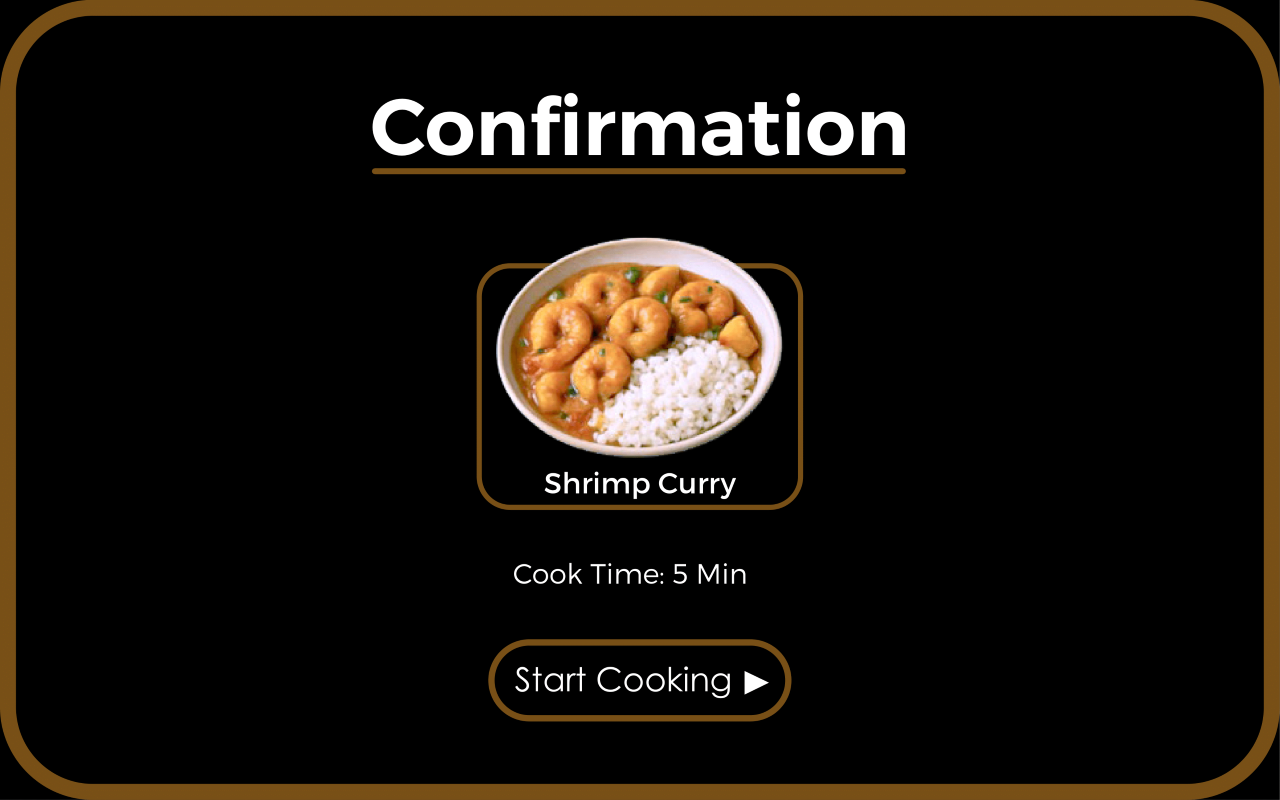
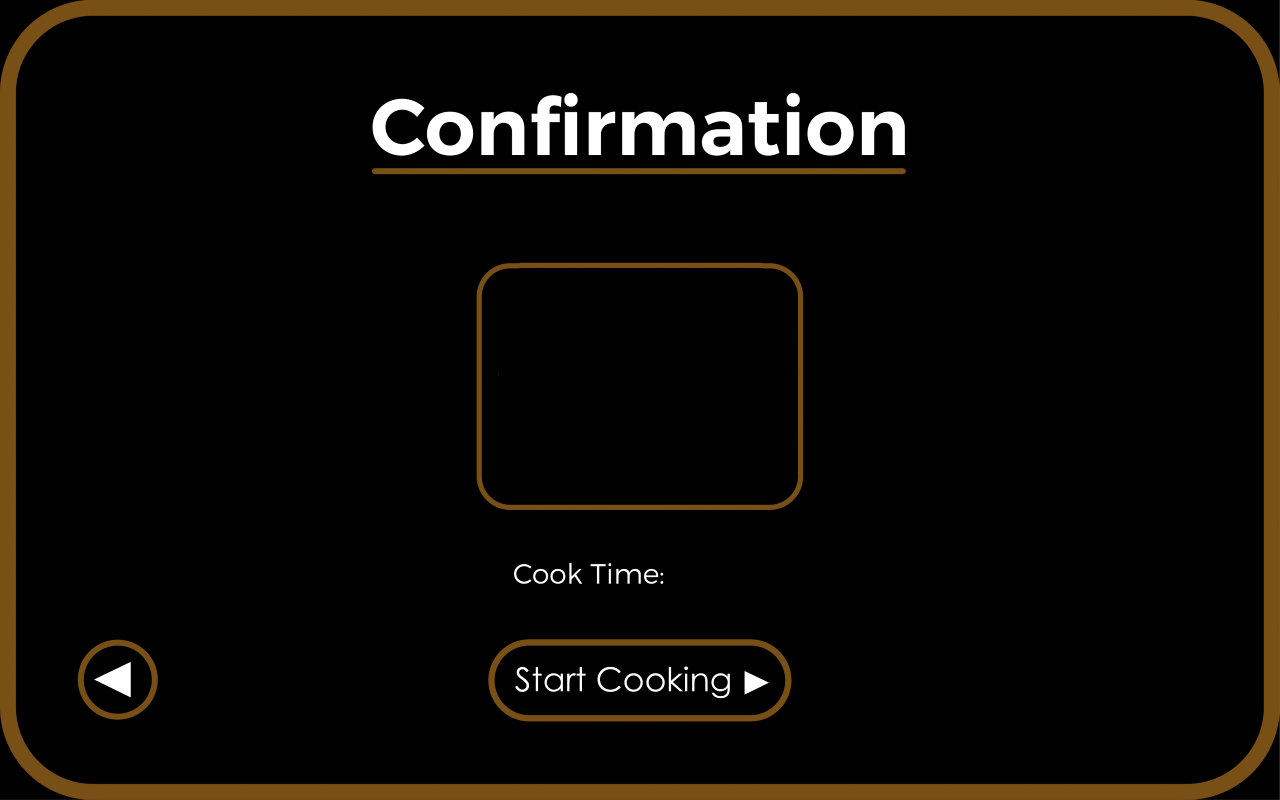
2025/12/06 01:06:36

Changed region(s): [[0.375, 0.2812, 0.625, 0.625], [0.0625, 0.7812, 0.125, 0.9062], [0.5312, 0.6875, 0.5625, 0.75]]

diff --git a/hmi_consts.py b/hmi_consts.py
@@ -1,0 +1,125 @@
+# hmi_consts.py
+
+from pathlib import Path
+import sys
+
+
+__version__ = "1.0.22 ß"
+
+
+# app_root(), a very common helper when you’re building Python applications
+# that can run both from source and as a frozen executable (e.g. built with PyInstaller).
+# _MEIPASS is set when built with PyInstaller.
+def app_root() -> Path:
+    if getattr(sys, "_MEIPASS", None):
+        return Path(sys._MEIPASS)
+    return Path(__file__).resolve().parent
+
+
+ROOT_DIR = app_root()
+ASSETS_DIR = ROOT_DIR / "assets"
+SETTINGS_DIR = ROOT_DIR / "settings"
+PROGRAMS_DIR = ROOT_DIR / "programs"
+
+
+class HMIColors:
+    BORDER_COLOR = "#E0E0F2"
+    DISABLED_BORDER_COLOR = "#BDBDBD"
+    DIALOG_BG_COLOR = "#FEFEFE"
+    BTN_COLOR = "#FAFAFF"
+    BTN_HOVER_COLOR = "#F0F0FF"
+    TEXT_COLOR = "#6750A4"
+    ROW_HIGHLIGHT = "#C0C3EE"
+    TEXTBOX_BG_COLOR = "#F7F7FF"
+    color_blue = "#89C8F8"
+    color_fg = "#DAFAFF"
+    color_numbers = "#3776C3"
+
+
+class HMISizePos:
+    """
+    Resolution profiles + scaling helpers.
+    Baseline design is 800x480; everything scales from there.
+    """
+
+    # Baseline
+    _BASE_W = 800
+    _BASE_H = 480
+
+    # Current resolution (set by set_resolution)
+    SCREEN_W = 800
+    SCREEN_H = 480
+    SCREEN_RES = "800x480"
+
+    # Scale factors
+    SX = 1.0  # width scale
+    SY = 1.0  # height scale
+    SCALE = 1.0  # min(SX, SY), good for fonts/radii
+
+    # Common base sizes
+    BTN_WIDTH_BASE = 220
+    BTN_HEIGHT_BASE = 64
+    PADDING_BASE = 16
+    GAP_BASE = 12
+    TITLE_SIZE_BASE = 28
+    TEXT_SIZE_BASE = 16
+    ICON_SIZE_BASE = 24
+
+    # Effective sizes (computed in set_resolution)
+    BTN_WIDTH = BTN_WIDTH_BASE
+    BTN_HEIGHT = BTN_HEIGHT_BASE
+    PADDING = PADDING_BASE
+    GAP = GAP_BASE
+    TITLE_SIZE = TITLE_SIZE_BASE
+    TEXT_SIZE = TEXT_SIZE_BASE
+    ICON_SIZE = ICON_SIZE_BASE
+
+    _PROFILES = {
+        "800x480": {"w": 800, "h": 480},
+        "1024x600": {"w": 1024, "h": 600},
+        "1280x800": {"w": 1280, "h": 800},
+    }
+
+    @classmethod
+    def set_resolution(cls, res: str = "800x480"):
+        if res not in cls._PROFILES:
+            res = "800x480"
+        cls.SCREEN_W = cls._PROFILES[res]["w"]
+        cls.SCREEN_H = cls._PROFILES[res]["h"]
+        cls.SCREEN_RES = f"{cls.SCREEN_W}x{cls.SCREEN_H}"
+
+        cls.SX = cls.SCREEN_W / cls._BASE_W
+        cls.SY = cls.SCREEN_H / cls._BASE_H
+        cls.SCALE = min(cls.SX, cls.SY)
+
+        # Derive commonly used sizes
+        cls.BTN_WIDTH = int(cls.BTN_WIDTH_BASE * cls.SX)
+        cls.BTN_HEIGHT = int(cls.BTN_HEIGHT_BASE * cls.SY)
+        cls.PADDING = int(cls.PADDING_BASE * cls.SCALE)
+        cls.GAP = int(cls.GAP_BASE * cls.SCALE)
+        cls.TITLE_SIZE = max(10, int(cls.TITLE_SIZE_BASE * cls.SCALE))
+        cls.TEXT_SIZE = max(8, int(cls.TEXT_SIZE_BASE * cls.SCALE))
+        cls.ICON_SIZE = max(12, int(cls.ICON_SIZE_BASE * cls.SCALE))
+
+    # --- scaling helpers your pages call ---
+    @classmethod
+    def s(cls, v: int | float) -> int:
+        """Uniform scale (fonts, radii)."""
+        return max(1, int(v * cls.SCALE))
+
+    @classmethod
+    def sx(cls, v: int | float) -> int:
+        """Scale for widths/x paddings."""
+        return max(1, int(v * cls.SX))
+
+    @classmethod
+    def sy(cls, v: int | float) -> int:
+        """Scale for heights/y paddings."""
+        return max(1, int(v * cls.SY))
+
+
+class HMISerial:
+    BAUD_RATE = 115200
+    DATABITS = 8
+    STOPBITS = 1
+    PARITY = "N"

diff --git a/start_cooking_confirmation.py b/start_cooking_confirmation.py
@@ -1,0 +1,85 @@
+# testpage.py
+import os
+from typing import List
+import customtkinter as ctk
+from PIL import Image, ImageDraw
+from hotspots import Hotspot
+from hmi_consts import ASSETS_DIR
+
+
+class StartCookingConfirmation:
+    """
+    Page model:
+      - uses homepage.png
+      - defines three hotspots and their callbacks
+    """
+
+    IMAGE_NAME = "04ConfirmationPage.png"
+
+    def __init__(self, controller=None):
+        self.controller = controller
+        self.meal_index: int = -1  # ← store for incoming parameter
+
+        self.meal_images = {
+            0: ("ShrimpCurry.png", "Shrimp Curry"),
+            1: ("ChickenParmesan.png", "Chicken Parmesan"),
+            2: ("BeefStirFry.png", "Beef Stir Fry"),
+            3: ("salmon.png", "Salmon"),
+            4: ("SteakAndBroccoli.png", "Steak abd Broccoli"),
+            5: ("Reheat.png", "Reheat"),
+        }
+
+        here = os.path.dirname(__file__) if "__file__" in globals() else os.getcwd()
+        assets_dir = os.path.join(here, "assets")
+        os.makedirs(assets_dir, exist_ok=True)
+
+        self.image_path = os.path.join(assets_dir, self.IMAGE_NAME)
+
+        self.hotspots: List[Hotspot] = [
+            Hotspot(
+                f"back",
+                (84, 642, 154, 707),
+                self.on_back_clicked,  # ← capture parameter
+            ),
+            Hotspot(
+                f"start",
+                (490, 641, 785, 716),
+                self.on_start_clicked,  # ← capture parameter
+            ),
+        ]
+
+    # ------------------------------------------------------------------
+    # Callbacks
+    # ------------------------------------------------------------------
+
+    def on_back_clicked(self):
+        print("on_back_clicked")
+        if self.controller:
+            self.controller.show_PrepareForCookingPage2()
+
+    def on_start_clicked(self):
+        print("on_start_clicked")
+        if self.controller:
+            pass
+
+    # ------------------------------------------------------------------
+    # Methods
+    # ------------------------------------------------------------------
+    def on_show(self, meal_index: int):
+        self.meal_index = meal_index
+        # Look up the meal's image
+        filename, name = self.meal_images[meal_index]
+
+        if not filename:
+            self.controller.view.set_overlay_image(None)
+            return
+
+        path = os.path.join(ASSETS_DIR, filename)
+
+        print(path)
+
+        # Show it in the confirmation page
+        self.controller.view.set_overlay_image(path, name, size=(270, 200))
+
+    def on_hide(self):
+        self.controller.view.set_overlay_image(None, None)

diff --git a/multipage_controller.py b/multipage_controller.py
@@ -7,6 +7,7 @@ from homepage import HomePage
 from select_meal_page import SelectMealPage
 from prepare_for_cooking1 import PrepareForCookingPage1
 from prepare_for_cooking2 import PrepareForCookingPage2
+from start_cooking_confirmation import StartCookingConfirmation
 
 
 class MultiPageController:
@@ -32,6 +33,7 @@ class MultiPageController:
         self.select_meal_page = SelectMealPage(controller=self)
         self.prepare_for_cooking_page1 = PrepareForCookingPage1(controller=self)
         self.prepare_for_cooking_page2 = PrepareForCookingPage2(controller=self)
+        self.start_cooking_confirm_page = StartCookingConfirmation(controller=self)
 
         # If you later add more pages, create them here, e.g.:
         # from settings_page import SettingsPage
@@ -44,9 +46,28 @@ class MultiPageController:
     # ------------------------------------------------------------------
     def show_page(self, page_obj) -> None:
         """
-        Generic page switch:
-          - page_obj must have image_path + hotspots
+        Generic page switch with lifecycle hooks:
+        - Calls on_hide() on the previous page (if it exists)
+        - Calls on_show() on the new page (if it exists)
+        - Updates the ImageHotspotView
         """
+        # 1. Call on_hide on the current page (if available)
+        if self._current_page and hasattr(self._current_page, "on_hide"):
+            try:
+                self._current_page.on_hide()
+            except Exception as e:
+                print(f"WARNING: on_hide() failed on {self._current_page}: {e}")
+
+        # 2. Call on_show on the new page (if available)
+        if hasattr(page_obj, "on_show"):
+            try:
+                page_obj.on_show()
+            except TypeError:
+                # Some pages (like StartCookingConfirmation) expect parameters
+                # They will call on_show manually before show_page()
+                pass
+
+        # 3. Switch pages visually
         self._current_page = page_obj
         self.view.set_page(page_obj)
 
@@ -61,6 +82,10 @@ class MultiPageController:
 
     def show_PrepareForCookingPage2(self) -> None:
         self.show_page(self.prepare_for_cooking_page2)
+
+    def show_StartCookingConfirmation(self) -> None:
+        self.start_cooking_confirm_page.on_show(self.select_meal_page.meal_index)
+        self.show_page(self.start_cooking_confirm_page)
 
     # Example for future pages:
     # def show_SettingsPage(self) -> None:

diff --git a/image_hotspot_view.py b/image_hotspot_view.py
@@ -46,6 +46,28 @@ class ImageHotspotView(ctk.CTkFrame):
         self.canvas.pack()
         self.canvas.bind("<Button-1>", self._on_click)
 
+        # --- Overlay image widget (for meal preview etc.) ---
+        self._overlay_ctk_image = None  # keeps reference
+        self.overlay_label = ctk.CTkLabel(
+            self, text="", fg_color="black", width=200, height=200
+        )
+        # Place it where the golden rectangle is (adjust as needed)
+        self.overlay_label.place(x=505, y=225)
+        self.overlay_label.lower()  # keep it above canvas but below hotspots, if any
+
+        self.label = ctk.CTkLabel(
+            self,
+            text="",
+            fg_color="black",
+            bg_color="black",
+            width=300,
+            height=57,
+            font=ctk.CTkFont(family="Poppins", size=32, weight="bold"),
+        )
+        # Place it where the golden rectangle is (adjust as needed)
+        self.label.place(x=490, y=435)
+        self.label.lower()  # keep it above canvas but below hotspots, if any
+
     # ------------------------------------------------------------------
     # Singleton access
     # ------------------------------------------------------------------
@@ -103,3 +125,33 @@ class ImageHotspotView(ctk.CTkFrame):
                 if hs.handler:
                     hs.handler()
                 break
+
+    def set_overlay_image(
+        self, image_path: str | None, name: str | None, size=(300, 300)
+    ):
+        """
+        Shows or hides an overlay image on top of the base page image.
+        image_path = None → hides the overlay.
+        """
+        if not image_path:
+            self.overlay_label.configure(image=None)
+            self._overlay_ctk_image = None
+            self.overlay_label.lower()  # hide the label if there is no image
+            self.label.lower()
+            return
+
+        if not os.path.exists(image_path):
+            print(f"Overlay image not found: {image_path}")
+            return
+
+        from PIL import Image
+
+        pil_img = Image.open(image_path).convert("RGBA")
+        pil_img = pil_img.resize(size)
+
+        self._overlay_ctk_image = ctk.CTkImage(dark_image=pil_img, size=size)
+        self.overlay_label.configure(image=self._overlay_ctk_image)
+        self.overlay_label.lift()  # keep it above canvas but below hotspots, if any
+
+        self.label.configure(text=name)
+        self.label.lift()

diff --git a/select_meal_page.py b/select_meal_page.py
@@ -17,6 +17,7 @@ class SelectMealPage:
 
     def __init__(self, controller=None):
         self.controller = controller
+        self.meal_index: int = -1
 
         here = os.path.dirname(__file__) if "__file__" in globals() else os.getcwd()
         assets_dir = os.path.join(here, "assets")
@@ -55,8 +56,9 @@ class SelectMealPage:
     # ------------------------------------------------------------------
     # Callbacks
     # ------------------------------------------------------------------
-    def on_meal_clicked(self, meal_index):
+    def on_meal_clicked(self, meal_index: int):
         print(f"on_meal_clicked {meal_index}")
+        self.meal_index = meal_index
         if self.controller:
             self.controller.show_PrepareForCookingPage1()
 

diff --git a/prepare_for_cooking2.py b/prepare_for_cooking2.py
@@ -49,4 +49,4 @@ class PrepareForCookingPage2:
     def on_forward_clicked(self):
         print("on_forward_clicked")
         if self.controller:
-            pass
+            self.controller.show_StartCookingConfirmation()
